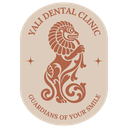
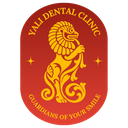
Colour Palatte Change

diff --git a/src/styles/global.css b/src/styles/global.css
@@ -25,30 +25,32 @@
 }
 
 :root {
-  /* Brand */
-  --ivory: #fffbf6;
-  --sand: #ddccbc;
-  --terracotta: #b06449;
-  --charcoal: #383434;
+  /* Brand palette corrected to the supplied red, gold and warm-neutral crest. */
+  --crest-red: #b02a1f;
+  --gold: #ffbe00;
+  --ivory: #ece4d9;
+  --sand: #e3d7c8;
+  --terracotta: var(--crest-red);
+  --charcoal: #332c28;
 
   /* Accessible functional extension of the brand palette */
-  --clay: #854431;
-  --clay-deep: #6b3324;
-  --clay-soft: #f2ded4;
+  --clay: #8c1f16;
+  --clay-deep: #7e1b13;
+  --clay-soft: #f6e3b4;
 
   /* Surfaces and lines */
-  --sand-soft: #f4ebe2;
-  --sand-deep: #d3bfae;
-  --line: #e7d9cc;
-  --line-strong: #d7c2b2;
-  --white: #fffdfa;
-  --charcoal-deep: #2c2826;
+  --sand-soft: #f4ece1;
+  --sand-deep: #d5c2ae;
+  --line: #e1d2c1;
+  --line-strong: #d1bda9;
+  --white: #fbf5ec;
+  --charcoal-deep: #241e1b;
 
   /* Text */
   --ink: var(--charcoal);
-  --ink-muted: #6d5f57;
-  --ink-on-dark: #fdf6ee;
-  --ink-on-dark-muted: #d9c8bb;
+  --ink-muted: #5f534a;
+  --ink-on-dark: #f6ebdc;
+  --ink-on-dark-muted: #e4cdb7;
 
   /* Type */
   --font-display: 'Lora', 'Iowan Old Style', 'Palatino Linotype', Palatino, Georgia, serif;
@@ -74,12 +76,12 @@
   --radius-lg: 16px;
   --arch: 50% 50% var(--radius-lg) var(--radius-lg) / 32% 32% var(--radius-lg) var(--radius-lg);
 
-  --shadow-soft: 0 24px 60px -32px rgb(56 52 52 / 0.35);
-  --shadow-lift: 0 2px 10px -4px rgb(56 52 52 / 0.22);
+  --shadow-soft: 0 24px 60px -32px rgb(51 44 40 / 0.35);
+  --shadow-lift: 0 2px 10px -4px rgb(51 44 40 / 0.22);
   --ease: cubic-bezier(0.22, 0.61, 0.36, 1);
   --header-h: 76px;
   --focus: var(--clay);
-  --focus-on-dark: #ffd9c4;
+  --focus-on-dark: var(--gold);
 }
 
 /* --------------------------------------------------------------------------
@@ -318,7 +320,7 @@ main {
   position: sticky;
   top: 0;
   z-index: 60;
-  background: rgb(255 251 246 / 0.9);
+  background: rgb(236 228 217 / 0.9);
   border-bottom: 1px solid transparent;
   transition: border-color 0.3s var(--ease), background-color 0.3s var(--ease);
 }
@@ -331,7 +333,7 @@ main {
 
 .site-header[data-stuck='true'] {
   border-bottom-color: var(--line);
-  background: rgb(255 251 246 / 0.96);
+  background: rgb(236 228 217 / 0.97);
 }
 
 .header__inner {
@@ -430,7 +432,7 @@ main {
 }
 
 .primary-nav a:hover {
-  background: rgb(221 204 188 / 0.4);
+  background: rgb(227 215 200 / 0.5);
   color: var(--ink);
 }
 
@@ -484,13 +486,13 @@ main {
 }
 
 .motion-toggle[aria-pressed='true'] {
-  background: var(--charcoal);
-  border-color: var(--charcoal);
+  background: var(--clay);
+  border-color: var(--clay);
   color: var(--ink-on-dark);
 }
 
 .motion-toggle[aria-pressed='true']:focus-visible {
-  outline-color: var(--focus-on-dark);
+  outline-color: var(--ink);
 }
 
 .motion-toggle svg {
@@ -569,7 +571,7 @@ main {
     padding: 0.5rem var(--gutter) 1rem;
     background: var(--ivory);
     border-bottom: 1px solid var(--line);
-    box-shadow: 0 24px 36px -30px rgb(56 52 52 / 0.45);
+    box-shadow: 0 24px 36px -30px rgb(51 44 40 / 0.45);
   }
 
   html[data-js='true'] .primary-nav[data-open='true'] {
@@ -869,8 +871,8 @@ main {
   aspect-ratio: 4 / 4.85;
   border-radius: var(--arch);
   background:
-    radial-gradient(120% 80% at 50% 8%, rgb(255 251 246 / 0.85), transparent 62%),
-    linear-gradient(168deg, #e9dccf 0%, var(--sand) 46%, #d2bcaa 100%);
+    radial-gradient(120% 80% at 50% 8%, rgb(251 245 236 / 0.9), transparent 62%),
+    linear-gradient(168deg, #f3eade 0%, var(--sand) 46%, #d5c3af 100%);
   overflow: hidden;
   box-shadow: inset 0 1px 0 rgb(255 255 255 / 0.6), var(--shadow-soft);
 }
@@ -880,7 +882,7 @@ main {
   position: absolute;
   inset: 12px;
   z-index: 1;
-  border: 1px solid rgb(133 68 49 / 0.32);
+  border: 1px solid rgb(176 42 31 / 0.34);
   border-radius: inherit;
   pointer-events: none;
 }
@@ -894,7 +896,7 @@ main {
   height: 14%;
   z-index: 1;
   border-radius: 50%;
-  background: radial-gradient(closest-side, rgb(56 52 52 / 0.22), rgb(56 52 52 / 0.05) 62%, transparent 76%);
+  background: radial-gradient(closest-side, rgb(51 44 40 / 0.22), rgb(51 44 40 / 0.05) 62%, transparent 76%);
   pointer-events: none;
 }
 
@@ -944,7 +946,7 @@ main {
   transform: translateX(-50%);
   padding: 0.2rem 0.55rem;
   border-radius: 999px;
-  background: rgb(255 251 246 / 0.85);
+  background: rgb(251 245 236 / 0.9);
   border: 1px solid var(--line-strong);
   color: var(--ink-muted);
   font-size: 0.68rem;
@@ -999,13 +1001,13 @@ main {
 }
 
 .stage-tool[aria-pressed='true'] {
-  background: var(--charcoal);
-  border-color: var(--charcoal);
+  background: var(--clay);
+  border-color: var(--clay);
   color: var(--ink-on-dark);
 }
 
 .stage-tool[aria-pressed='true']:focus-visible {
-  outline-color: var(--focus-on-dark);
+  outline-color: var(--ink);
 }
 
 .stage-tool:disabled {
@@ -1077,7 +1079,7 @@ main {
   content: '';
   position: absolute;
   inset: 14px;
-  border: 1px solid rgb(133 68 49 / 0.28);
+  border: 1px solid rgb(176 42 31 / 0.3);
   border-radius: inherit;
 }
 
@@ -1646,7 +1648,7 @@ html[data-js='true'] .stepper[data-enhanced='true'] .stepper__panel[hidden] {
   border: 1px solid var(--line-strong);
   border-radius: var(--radius-lg);
   background:
-    radial-gradient(120% 120% at 100% 0%, rgb(255 251 246 / 0.75), transparent 55%),
+    radial-gradient(120% 120% at 100% 0%, rgb(251 245 236 / 0.8), transparent 55%),
     var(--sand);
 }
 
@@ -1656,7 +1658,7 @@ html[data-js='true'] .stepper[data-enhanced='true'] .stepper__panel[hidden] {
 
 .enquiry p {
   max-width: 54ch;
-  color: #4a413b;
+  color: var(--ink-muted);
   font-size: 0.96rem;
 }
 
@@ -1938,7 +1940,7 @@ html[data-js='true'] .stepper[data-enhanced='true'] .stepper__panel[hidden] {
   padding: 0.3rem 0.55rem;
   border: 1px solid var(--line-strong);
   border-radius: 999px;
-  background: rgb(255 251 246 / 0.92);
+  background: rgb(251 245 236 / 0.94);
   color: var(--ink);
   font-size: 0.7rem;
   font-weight: 500;
@@ -2027,13 +2029,13 @@ html[data-js='true'] .stepper[data-enhanced='true'] .stepper__panel[hidden] {
 }
 
 .explorer__controls .stage-tool[aria-pressed='true'] {
-  background: var(--charcoal);
-  border-color: var(--charcoal);
+  background: var(--clay);
+  border-color: var(--clay);
   color: var(--ink-on-dark);
 }
 
 .explorer__controls .stage-tool[aria-pressed='true']:focus-visible {
-  outline-color: var(--clay);
+  outline-color: var(--ink);
 }
 
 .explorer__hint {
@@ -2081,13 +2083,13 @@ html[data-js='true'] .stepper[data-enhanced='true'] .stepper__panel[hidden] {
 }
 
 .concern-tab[aria-selected='true'] {
-  background: var(--charcoal);
-  border-color: var(--charcoal);
+  background: var(--clay);
+  border-color: var(--clay);
   color: var(--ink-on-dark);
 }
 
 .concern-tab[aria-selected='true']:focus-visible {
-  outline-color: var(--clay);
+  outline-color: var(--ink);
 }
 
 .concern-panel {
@@ -2304,7 +2306,7 @@ html[data-js='true'] .concern-panel[hidden] {
 .contact-aside p,
 .contact-aside li {
   font-size: 0.9rem;
-  color: #4a413b;
+  color: var(--ink-muted);
 }
 
 .contact-aside ul {
@@ -2320,7 +2322,7 @@ html[data-js='true'] .concern-panel[hidden] {
   border-left: 3px solid var(--terracotta);
   background: var(--sand-soft);
   font-size: 0.92rem;
-  color: #4a413b;
+  color: var(--ink-muted);
 }
 
 .notice strong {
@@ -2332,10 +2334,11 @@ html[data-js='true'] .concern-panel[hidden] {
    -------------------------------------------------------------------------- */
 
 .site-footer {
-  --focus: var(--focus-on-dark);
+  --focus: var(--gold);
   margin-top: 0;
   padding-block: clamp(2.5rem, 5vw, 4rem) 1.5rem;
-  background: var(--charcoal);
+  border-top: 2px solid var(--gold);
+  background: var(--clay-deep);
   color: var(--ink-on-dark);
 }
 
@@ -2380,9 +2383,19 @@ html[data-js='true'] .concern-panel[hidden] {
   gap: 0.8rem;
 }
 
+.footer__crest-badge {
+  display: grid;
+  place-items: center;
+  flex: none;
+  width: 66px;
+  height: 66px;
+  border-radius: 50%;
+  background: var(--ivory);
+}
+
 .footer__crest {
-  width: 56px;
-  height: 56px;
+  width: 58px;
+  height: 58px;
 }
 
 .footer__name {
@@ -2394,7 +2407,7 @@ html[data-js='true'] .concern-panel[hidden] {
 .footer__tagline {
   font-family: var(--font-display);
   font-size: var(--step-1);
-  color: var(--ink-on-dark);
+  color: var(--gold);
 }
 
 .footer__note {
@@ -2411,7 +2424,7 @@ html[data-js='true'] .concern-panel[hidden] {
   font-weight: 600;
   letter-spacing: 0.14em;
   text-transform: uppercase;
-  color: var(--ink-on-dark-muted);
+  color: var(--gold);
 }
 
 .footer__col ul {
@@ -2448,7 +2461,7 @@ html[data-js='true'] .concern-panel[hidden] {
   gap: 0.75rem;
   margin-top: 2.5rem;
   padding-top: 1.25rem;
-  border-top: 1px solid rgb(253 246 238 / 0.18);
+  border-top: 1px solid rgb(246 235 220 / 0.25);
   font-size: 0.78rem;
   color: var(--ink-on-dark-muted);
 }
@@ -2680,7 +2693,7 @@ html[data-js='true'] .concern-panel[hidden] {
   border: 1px dashed var(--line-strong);
   border-radius: var(--radius-lg);
   background:
-    linear-gradient(135deg, transparent 47%, rgb(133 68 49 / 0.08) 47%, rgb(133 68 49 / 0.08) 53%, transparent 53%),
+    linear-gradient(135deg, transparent 47%, rgb(176 42 31 / 0.09) 47%, rgb(176 42 31 / 0.09) 53%, transparent 53%),
     var(--sand-soft);
   background-size: 34px 34px;
   color: var(--ink-muted);
